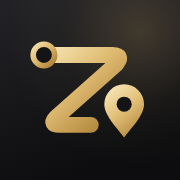
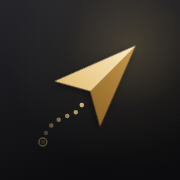
Курьер: новый значок — золотая стрелка навигатора вместо буквы Z
По просьбе владельца без буквы: гранёная стрелка навигатора (светлая и
тёмная грани золота) на графите, за ней — изогнутый пунктир пройденного
пути от кольца старта, проявляется к стрелке. Тонкая золотая кромка.
Все размеры: веб 192/512, maskable 512 и 180 для iPhone (знак уменьшен
под безопасную зону), APK 144/192 и передний слой адаптивного значка
Android 8+ (проверено превью кругом, квадратом и «капсулой»). Кэш
приложения v9.

Changed region(s): [[0.1667, 0.2222, 0.8056, 0.8333]]

diff --git a/saas-gateway/courier-web/sw.js b/saas-gateway/courier-web/sw.js
@@ -2,7 +2,7 @@
  * Сначала сеть (обновления приходят сразу), кэш — запасной путь.
  * Запросы к серверу (api/) не кэшируются никогда: заказы — только свежие. */
 "use strict";
-const CACHE = "zalpos-courier-v8";
+const CACHE = "zalpos-courier-v9";
 // Тайлы своей карты — отдельно и «сначала из памяти»: адрес тайла меняется
 // с каждой новой сборкой карты (?v=…), старые вытесняются по количеству.
 const TILES = "zalpos-map-tiles-v1";

diff --git a/CLAUDE.md b/CLAUDE.md
@@ -92,7 +92,7 @@ SaaS-касса и система управления для общепита (
 - **Цена доставки по километрам и ориентиры по регионам** (11.11.2026, `docs/delivery.md` раздел 19): гость отметил точку → цена по дорогам сразу в счёте (`/guestDeliveryQuote`, `byKm`), кнопка «Подставить цены региона» в кабинете (данные Росстата 09.2026). **Демо перенесено в Санкт-Петербург** (Невский 28, Университетская наб. 3).
 - **Курьеры заведения — вход по почте и коду** (13.11.2026, `docs/delivery.md` раздел 20; заменили «свободных курьеров» от 12.11 — по решению владельца маркетплейс и саморегистрация убраны, ИНН/ФНС/медкнижка удалены, старые учётки `root: "free"` стираются при запуске). Курьера заводит только заведение: Кабинет → «Доставка» → «Курьеры» (имя, email, телефон, транспорт) → письмо-приглашение; курьер привязан к корню точки/сети и видит только её заказы. Вход: email + галочка согласия + 6-значный код из письма (10 мин, повтор через 60 с, 5 попыток) = ПЭП (ст. 5 63-ФЗ), в учётке `consentAt/consentIp/consentEmail/policyVersion "2.0"`; одна почта в нескольких заведениях — выбор заведения. Лимит тарифа `maxCouriers` (-1 — без лимита; Старт 1, Стандарт 3, Про 10, Сеть 10, Сеть Про ∞), сверх — 403 `COURIER_LIMIT_EXCEEDED`; «Активных курьеров: X из Y» + «Увеличить лимит»; блокировка гасит вход и освобождает место. Режим «Свободный пул» / «Ручное назначение». Приложение: экраны входа и кода, заведение в шапке, вкладки «Заказы · Мои поездки · Профиль». Условия для курьеров `courier-web/rules.html` (ред. 2.0), оферта п. 7.9, политика ПД — редакция № 7. Тесты — `test.courier.js`, браузер — `e2e-courier.js`, `e2e-delivery-cabinet.js`.
 - **Премиум-дизайн приложения курьера** (13.11.2026, просьба владельца): «графит и шампань» — в светлой теме чёрные кнопки с золотым текстом и тёплый фон, в тёмной — золотые кнопки на графите; «На линии», деньги и «Оплачен» — изумруд; стекло над картой, золотая черта у активной вкладки, «Мои поездки» — тёмная карточка с золотом. Своя карта: платиновый фон, магистрали цвета шампань, маршрут — чёрная линия с золотой сердцевиной (тёмная тема — золотая), метки заведения/гостя в золоте (`map-style.js`, `map-web/zal-map.js`, `zal-map.css`). Токены — в начале `courier-web/app.css`, премиум-слой — в конце.
-- **Значок, вид карты, тарифы на сайте** (13.11.2026): значок приложения курьера — графит и золотой «Z-маршрут» от кольца старта к метке (векторный исходник рисуется Playwright в PNG: `courier-web/icon-192/512`, `icon-maskable-512`, `apple-touch-icon`, APK — `mipmap-*/ic_launcher*` и адаптивный `mipmap-anydpi-v26/ic_launcher.xml`, фон `@color/ic_bg`). В приложении курьера — выбор «Схема / Спутник / Гибрид» (схема — своя карта; спутник и гибрид — фрейм «Яндекс Карт» `l=sat` / `l=sat,skl,trf`, выбор в `zc_layer`) и кнопка «весь маршрут». Лендинг: раздел «Своя доставка с приложением курьера» (8 пунктов), в карточках тарифов — «Своя доставка, карта, маршруты» и «Приложение курьера (Android и веб) — до N курьеров»; сервер при запуске дописывает `maxCouriers` из каталога в тарифы базы, где поля нет (`backfillPlanCouriers`).
+- **Значок, вид карты, тарифы на сайте** (13.11.2026): значок приложения курьера — графит и золотая гранёная стрелка навигатора с пунктиром пройденного пути от кольца старта (букву «Z» владелец отклонил) (векторный исходник рисуется Playwright в PNG: `courier-web/icon-192/512`, `icon-maskable-512`, `apple-touch-icon`, APK — `mipmap-*/ic_launcher*` и адаптивный `mipmap-anydpi-v26/ic_launcher.xml`, фон `@color/ic_bg`). В приложении курьера — выбор «Схема / Спутник / Гибрид» (схема — своя карта; спутник и гибрид — фрейм «Яндекс Карт» `l=sat` / `l=sat,skl,trf`, выбор в `zc_layer`) и кнопка «весь маршрут». Лендинг: раздел «Своя доставка с приложением курьера» (8 пунктов), в карточках тарифов — «Своя доставка, карта, маршруты» и «Приложение курьера (Android и веб) — до N курьеров»; сервер при запуске дописывает `maxCouriers` из каталога в тарифы базы, где поля нет (`backfillPlanCouriers`).
 - **Карточка бонусов гостя — цвет уровня** (12.11.2026, просьба владельца): в приложении гостя (только SaaS, `kSaasMode`) и в веб-версии карточка бонусов на главной и в профиле окрашена «металлом» уровня — бронза, серебро, золото, платина, алмаз (`TierMetal` в `lib/client/theme/kolibri_theme.dart`, классы `.tier.metal-*` в `saas/guest-web/app/app.css`), а не цветом заведения. Свои названия уровней — по порядку. Текст тёмный, контраст ≥ 4.5:1 (тест `test/kolibri_theme_test.dart`).
 - **Бронь после полуночи** (12.11.2026): заведение 16:00–02:00 — время раньше открытия относится к ночи выбранного дня (`bookingStart` в веб-гостя; в приложении слоты уже полные DateTime). Пока идёт ночная смена вчерашнего дня, первым днём в списке дат остаётся вчерашний (`currentWorkDay` в `saas/guest-web/app/app.js` и `ReservationService.currentWorkDay`, экран брони гостя — под `kSaasMode`).
 - **Тесты:** в `npm test` добавлены наборы, которые раньше не запускались: partners, billing, open-api.
